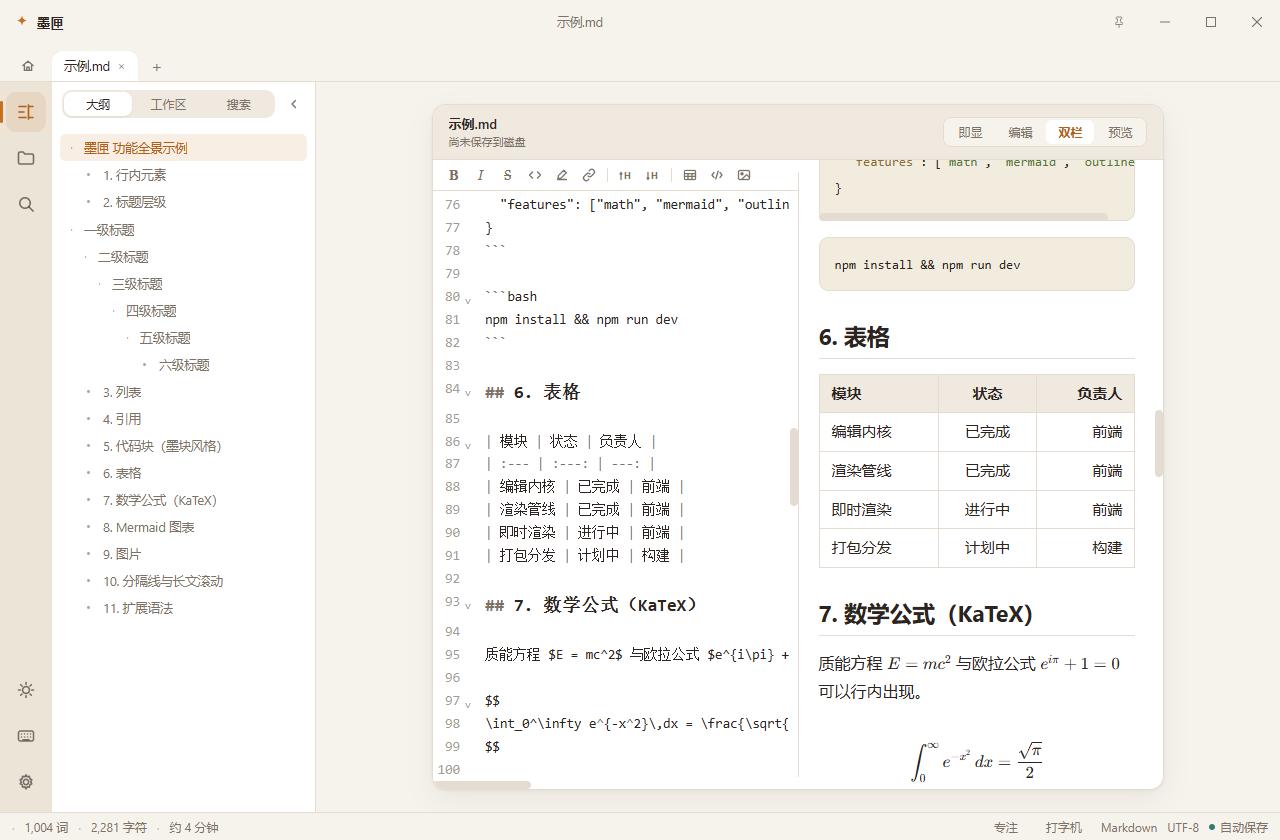
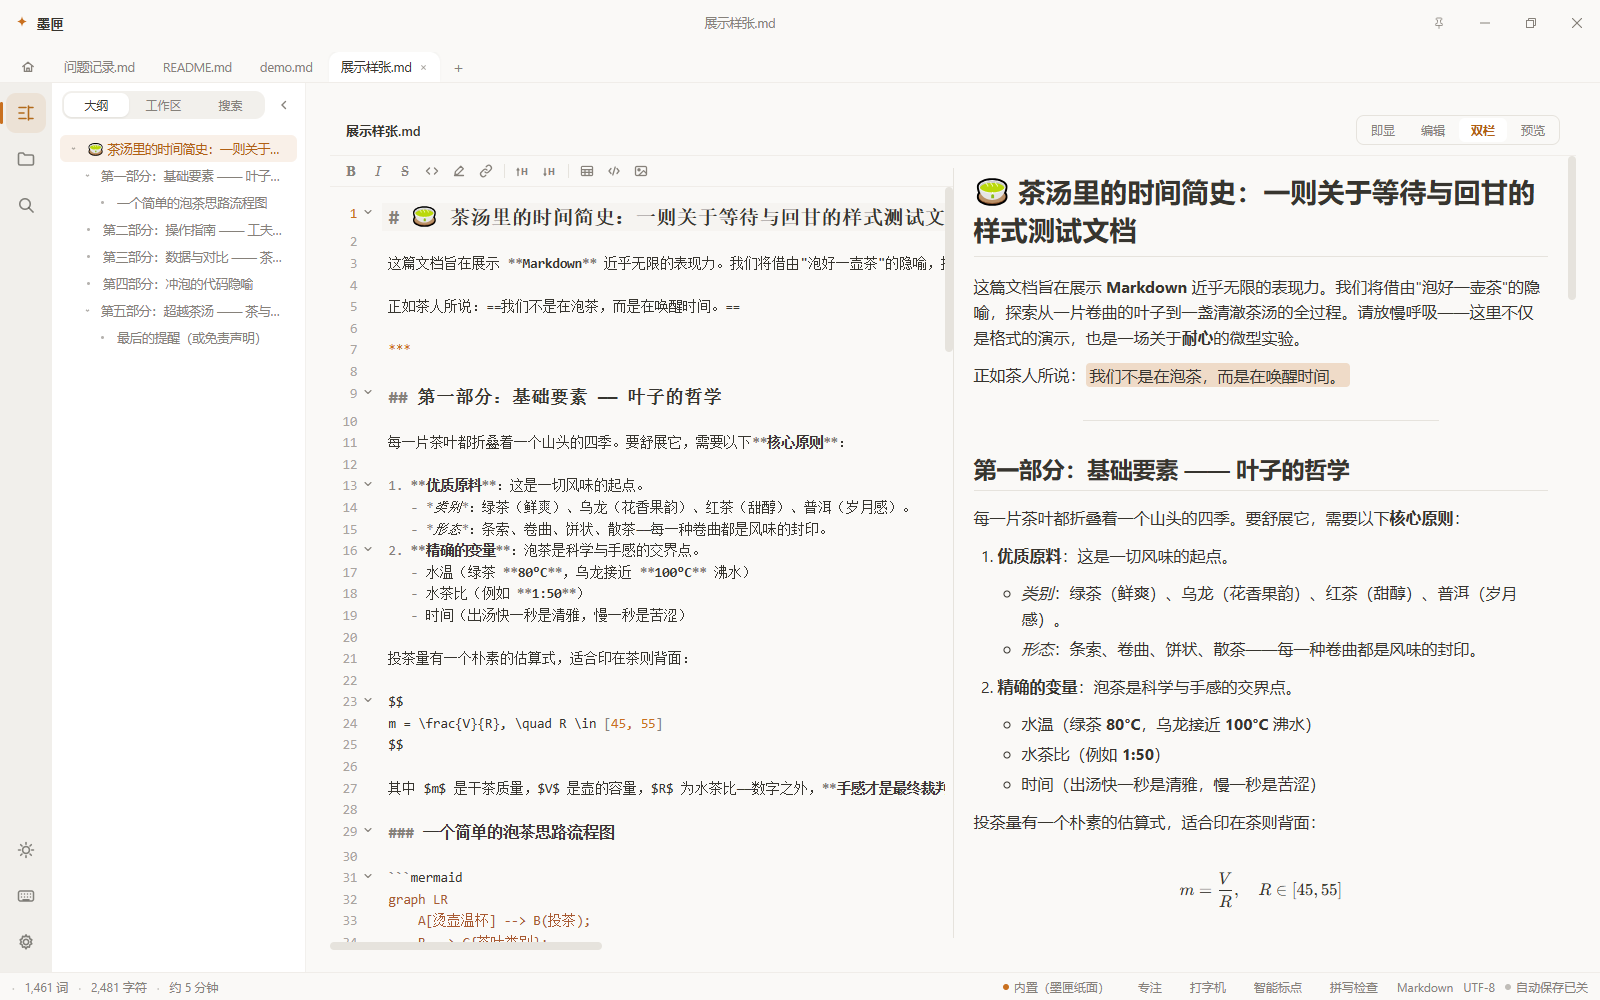
docs: README 新增兼容 Typora 主题展示区；截图素材统一为展示样张
- 新增「兼容 Typora 主题」节：10 主题四列表（主题/变体/官方地址/下载）
  + 17 张主题截图（多变体亮暗两张、单色一张；phycat 亮色用 caramel）
- 内置「界面预览」四张（即显亮/双栏亮/即显暗/预览暗）改用展示样张实拍
- 全部截图统一 1600×1000；图片表用 HTML 表格强制 50% 列宽（GitHub auto
  布局按表头文字分列宽会导致左右图一大一小）
- 新增 samples/展示样张.md（茶主题排版样张，README 素材链接指向它）

diff --git a/README.md b/README.md
@@ -1,12 +1,12 @@
 <div align="center">
 
-![](docs/banner.svg)
+![](./docs/banner.svg)
 
 [下载最新版](https://github.com/luciferoho/inkbox/releases/latest) · [问题反馈](https://github.com/luciferoho/inkbox/issues) · [设计规范](./DESIGN.md)
 
 </div>
 
----
+***
 
 ## 简介
 
@@ -16,13 +16,84 @@
 
 ## 界面预览
 
-以下截图均以内置的[功能示例文档](./samples/示例.md)实拍：
+以下截图均以内置的 [展示样张](./samples/展示样张.md) 实拍：
 
-| 即显模式 · 亮色 | 双栏模式 · 亮色（源码 ⇄ 预览同步） |
-|:---:|:---:|
-| ![](docs/shot-wysiwyg-light.png) | ![](docs/shot-split-light.png) |
-| **即显模式 · 暗色** | **预览模式 · 暗色** |
-| ![](docs/shot-wysiwyg-dark.png) | ![](docs/shot-preview-dark.png) |
+<table>
+  <tr>
+    <th width="50%">即显模式 · 亮色</th>
+    <th width="50%">双栏模式 · 亮色（源码 ⇄ 预览同步）</th>
+  </tr>
+  <tr>
+    <td align="center"><img src="./docs/shot-wysiwyg-light.png" width="100%" alt="即显模式 · 亮色" /></td>
+    <td align="center"><img src="./docs/shot-split-light.png" width="100%" alt="双栏模式 · 亮色" /></td>
+  </tr>
+  <tr>
+    <th width="50%">即显模式 · 暗色</th>
+    <th width="50%">预览模式 · 暗色</th>
+  </tr>
+  <tr>
+    <td align="center"><img src="./docs/shot-wysiwyg-dark.png" width="100%" alt="即显模式 · 暗色" /></td>
+    <td align="center"><img src="./docs/shot-preview-dark.png" width="100%" alt="预览模式 · 暗色" /></td>
+  </tr>
+</table>
+
+## 兼容 Typora 主题
+
+墨匣兼容主流 Typora 主题：将下载的主题放入主题目录（应用内 **设置 → 主题 → 打开主题目录**）即可在设置中切换，支持明暗变体跟随与多配色族。
+
+| 主题              | 变体           | 官方地址                                                                                              | 下载                                                                                        |
+| --------------- | ------------ | ------------------------------------------------------------------------------------------------- | ----------------------------------------------------------------------------------------- |
+| phycat          | 11 种配色       | [sumruler/typora-theme-phycat](https://github.com/sumruler/typora-theme-phycat)                   | [前往下载](https://github.com/sumruler/typora-theme-phycat/releases)                          |
+| esther-inspired | 浅色 / 深色      | [lisitan/esther-obsidian-typora-themes](https://github.com/lisitan/esther-obsidian-typora-themes) | [前往下载](https://github.com/lisitan/esther-obsidian-typora-themes/releases)                 |
+| eyes-green      | 浅色 / 深色      | [aqimake/typora-eyes-green-theme](https://github.com/aqimake/typora-eyes-green-theme)             | [前往下载](https://github.com/aqimake/typora-eyes-green-theme/releases)                       |
+| vue             | 浅色 / 深色      | [blinkfox/typora-vue-theme](https://github.com/blinkfox/typora-vue-theme)                         | [直接下载](https://codeload.github.com/blinkfox/typora-vue-theme/zip/master)                  |
+| morandigarden   | 浅色           | [Kitsunee-CN/MorandiGarden](https://github.com/Kitsunee-CN/MorandiGarden)                         | [前往下载](https://github.com/Kitsunee-CN/MorandiGarden/releases)                             |
+| orangeheart     | 浅色           | [evgo2017/typora-theme-orange-heart](https://github.com/evgo2017/typora-theme-orange-heart)       | [前往下载](https://github.com/evgo2017/typora-theme-orange-heart/blob/master/orangeheart.css) |
+| kiro            | 深色           | [mooonu/typora-kiro-theme](https://github.com/mooonu/typora-kiro-theme)                           | [前往下载](https://github.com/mooonu/typora-kiro-theme/releases)                              |
+| sonnet          | 浅色 / 深色      | —                                                                                                 | [直接下载](https://codeload.github.com/bexino/sonnet/zip/refs/heads/main)                     |
+| claude-like     | 浅色 / 深色 / 灰色 | [Muyiiiii/Typora_Claude-Like_Theme](https://github.com/Muyiiiii/Typora_Claude-Like_Theme)         | [前往下载](https://github.com/Muyiiiii/Typora_Claude-Like_Theme/releases)                     |
+| lightmind       | 浅色 / 深色      | [SunMoonTrain/LightMindTheme](https://github.com/SunMoonTrain/LightMindTheme)                     | [前往下载](https://github.com/SunMoonTrain/LightMindTheme/releases)                           |
+
+以下主题截图均以内置的 [展示样张](./samples/展示样张.md) 实拍（即显模式 + 大纲侧栏）：
+
+<table>
+  <tr>
+    <td width="50%" align="center"><strong>phycat</strong> · caramel（亮）<br /><img src="./docs/themes/phycat-caramel.png" width="100%" alt="phycat · caramel" /></td>
+    <td width="50%" align="center"><strong>phycat</strong> · vampire（暗）<br /><img src="./docs/themes/phycat-vampire.png" width="100%" alt="phycat · vampire" /></td>
+  </tr>
+  <tr>
+    <td width="50%" align="center"><strong>esther-inspired</strong> · 浅色<br /><img src="./docs/themes/esther-inspired-light.png" width="100%" alt="esther-inspired 浅色" /></td>
+    <td width="50%" align="center"><strong>esther-inspired</strong> · 深色<br /><img src="./docs/themes/esther-inspired-dark.png" width="100%" alt="esther-inspired 深色" /></td>
+  </tr>
+  <tr>
+    <td width="50%" align="center"><strong>eyes-green</strong> · 浅色<br /><img src="./docs/themes/eyes-green-light.png" width="100%" alt="eyes-green 浅色" /></td>
+    <td width="50%" align="center"><strong>eyes-green</strong> · 深色<br /><img src="./docs/themes/eyes-green-dark.png" width="100%" alt="eyes-green 深色" /></td>
+  </tr>
+  <tr>
+    <td width="50%" align="center"><strong>vue</strong> · 浅色<br /><img src="./docs/themes/vue-light.png" width="100%" alt="vue 浅色" /></td>
+    <td width="50%" align="center"><strong>vue</strong> · 深色<br /><img src="./docs/themes/vue-dark.png" width="100%" alt="vue 深色" /></td>
+  </tr>
+  <tr>
+    <td width="50%" align="center"><strong>sonnet</strong> · 浅色<br /><img src="./docs/themes/sonnet-light.png" width="100%" alt="sonnet 浅色" /></td>
+    <td width="50%" align="center"><strong>sonnet</strong> · 深色<br /><img src="./docs/themes/sonnet-dark.png" width="100%" alt="sonnet 深色" /></td>
+  </tr>
+  <tr>
+    <td width="50%" align="center"><strong>claude-like</strong> · 浅色<br /><img src="./docs/themes/claude-like-light.png" width="100%" alt="claude-like 浅色" /></td>
+    <td width="50%" align="center"><strong>claude-like</strong> · 深色<br /><img src="./docs/themes/claude-like-dark.png" width="100%" alt="claude-like 深色" /></td>
+  </tr>
+  <tr>
+    <td width="50%" align="center"><strong>lightmind</strong> · 浅色<br /><img src="./docs/themes/lightmind-light.png" width="100%" alt="lightmind 浅色" /></td>
+    <td width="50%" align="center"><strong>lightmind</strong> · 深色<br /><img src="./docs/themes/lightmind-dark.png" width="100%" alt="lightmind 深色" /></td>
+  </tr>
+</table>
+
+<table>
+  <tr>
+    <td width="33.3%" align="center"><strong>morandigarden</strong><br /><img src="./docs/themes/morandigarden-light.png" width="100%" alt="morandigarden" /></td>
+    <td width="33.3%" align="center"><strong>orangeheart</strong><br /><img src="./docs/themes/orangeheart-light.png" width="100%" alt="orangeheart" /></td>
+    <td width="33.4%" align="center"><strong>kiro</strong><br /><img src="./docs/themes/kiro-dark.png" width="100%" alt="kiro" /></td>
+  </tr>
+</table>
 
 ## 功能特性
 
@@ -69,25 +140,25 @@
 
 前往 [Releases](https://github.com/luciferoho/inkbox/releases/latest) 下载：
 
-| 文件 | 说明 |
-|------|------|
-| `Inkbox-<版本>-setup.exe` | 安装版（推荐，可选安装目录，支持自动更新） |
-| `Inkbox-<版本>-portable.exe` | 便携版（免安装单文件） |
+| 文件                         | 说明                    |
+| -------------------------- | --------------------- |
+| `Inkbox-<版本>-setup.exe`    | 安装版（推荐，可选安装目录，支持自动更新） |
+| `Inkbox-<版本>-portable.exe` | 便携版（免安装单文件）           |
 
 - 系统要求：Windows 10 及以上（x64）
 - 安装包未做代码签名，首次运行如遇 SmartScreen 提示，选择「更多信息 → 仍要运行」即可
 
 ## 快捷键（节选）
 
-| 快捷键 | 功能 |
-|--------|------|
-| `Ctrl+N` / `Ctrl+S` | 新建 / 保存 |
-| `Ctrl+F` / `Ctrl+H` | 查找 / 替换 |
-| `Ctrl+E` | 导出 |
-| `Ctrl+,` | 偏好设置 |
-| `Ctrl+Tab` / `Ctrl+Shift+Tab` | 切换标签 |
-| `F8` / `F9` | 专注模式 / 打字机模式 |
-| `Ctrl+\` | 切换编辑模式 |
+| 快捷键                           | 功能           |
+| ----------------------------- | ------------ |
+| `Ctrl+N` / `Ctrl+S`           | 新建 / 保存      |
+| `Ctrl+F` / `Ctrl+H`           | 查找 / 替换      |
+| `Ctrl+E`                      | 导出           |
+| `Ctrl+,`                      | 偏好设置         |
+| `Ctrl+Tab` / `Ctrl+Shift+Tab` | 切换标签         |
+| `F8` / `F9`                   | 专注模式 / 打字机模式 |
+| `Ctrl+\`                      | 切换编辑模式       |
 
 完整列表见应用内 **快捷键** 面板（支持自定义改键）。
 

diff --git a/samples/展示样张.md b/samples/展示样张.md
@@ -1,0 +1,139 @@
+# 🍵 茶汤里的时间简史：一则关于等待与回甘的样式测试文档
+
+这篇文档旨在展示 **Markdown** 近乎无限的表现力。我们将借由"泡好一壶茶"的隐喻，探索从一片卷曲的叶子到一盏清澈茶汤的全过程。请放慢呼吸——这里不仅是格式的演示，也是一场关于**耐心**的微型实验。
+
+正如茶人所说：==我们不是在泡茶，而是在唤醒时间。==
+
+---
+
+## 第一部分：基础要素 —— 叶子的哲学
+
+每一片茶叶都折叠着一个山头的四季。要舒展它，需要以下**核心原则**：
+
+1.  **优质原料**：这是一切风味的起点。
+    *   *类别*：绿茶（鲜爽）、乌龙（花香果韵）、红茶（甜醇）、普洱（岁月感）。
+    *   *形态*：条索、卷曲、饼状、散茶——每一种卷曲都是风味的封印。
+2.  **精确的变量**：泡茶是科学与手感的交界点。
+    *   水温（绿茶 **80°C**，乌龙接近 **100°C** 沸水）
+    *   水茶比（例如 **1:50**）
+    *   时间（出汤快一秒是清雅，慢一秒是苦涩）
+
+投茶量有一个朴素的估算式，适合印在茶则背面：
+
+$$
+m = \frac{V}{R}, \quad R \in [45, 55]
+$$
+
+其中 $m$ 是干茶质量，$V$ 是壶的容量，$R$ 为水茶比——数字之外，**手感才是最终裁判**。
+
+### 一个简单的泡茶思路流程图
+
+```mermaid
+graph LR
+    A[烫壶温杯] --> B(投茶);
+    B --> C{茶叶类别};
+    C -->|绿茶| D[80°C 悬壶高冲];
+    C -->|乌龙| E[沸水环绕注水];
+    D --> F[一分钟后出汤];
+    E --> G[前四泡快进快出];
+    F & G --> H[分茶];
+    H --> I[闻香!];
+```
+
+## 第二部分：操作指南 —— 工夫茶的仪式感
+
+以下是一段经典的**潮州工夫茶**流程，它体现了秩序与即兴的结合：
+
+1.  **备器**：孟臣壶、若琛杯，一只茶海，烧水器一应俱全。
+2.  **温润**：沸水烫壶烫杯，顺手把茶宠浇得油光水亮。
+3.  **醒茶**：
+    - 第一泡注水后立即倒掉，唤醒沉睡的叶片。
+    - 观察叶底舒展的速度，判断火功与陈化。
+        - ✅ 理想：叶片边缘渐次展开，汤色透亮。
+        - ❌ 失误：汤色浑浊发暗，多半是存放不当或火功过头。
+4.  **出汤**：前四泡 **快进快出**，之后每泡顺延五秒，直到茶味淡成一阵回甘。
+
+> **技术注记**：快出汤的本质是控制浸出物浓度曲线——前段取香，中段取味，尾段取韵。这是**科学**的部分。而每一泡之间等待的那十几秒，盯着袅袅的热气放空自己，则是**艺术**的开始。
+
+## 第三部分：数据与对比 —— 茶类的理性选择
+
+六大茶类性格迥异，下表对比了四种代表茶的处理方式：
+
+| 茶类                     | 发酵程度   | 核心工艺         | 上手难度 | 适合场景             |
+| :----------------------- | :--------- | :--------------- | :------- | :------------------- |
+| **绿茶**（龙井）         | 不发酵 ⭐  | 杀青、理条       | ⭐⭐      | 春日午后、配青团     |
+| **乌龙**（凤凰单丛[^1]） | 半发酵     | 做青、炭焙       | ⭐⭐⭐⭐   | 深夜码字、闻香止饿   |
+| **红茶**（正山小种）     | 全发酵     | 萎凋、发酵、烘焙 | ⭐⭐      | 冬日手边、加奶无压力 |
+| **普洱**（老生普）       | 后发酵     | 晒青、紧压、陈化 | ⭐⭐⭐     | 有耐心的朋友来访     |
+
+周末茶会的筹备清单，欢迎勾选：
+
+- [x] 选定主题茶单（一绿一乌一红）
+- [x] 备好山泉水与备用滤网
+- [ ] 练习一手稳定的「关公巡城」
+- [ ] 说服朋友不要往单丛里加糖
+
+## 第四部分：冲泡的代码隐喻
+
+泡茶本质上是一个受控的萃取过程。我们可以用一段代码来抽象这一逻辑：
+
+```python
+# tea_brewing.py
+class GongfuSession:
+    def __init__(self, tea, water=100, ratio=50):
+        self.tea = tea        # 茶叶对象（含类别、焙火属性）
+        self.water = water    # 水温
+        self.ratio = ratio    # 水茶比
+        self.steep = 0        # 当前冲泡次数
+        self.aroma = 0.0      # 香气浓度
+
+    def brew(self):
+        """执行一次冲泡的核心算法"""
+        temp = self._adjust_temp()        # 按茶类修正水温
+        self.steep += 1
+
+        if self._is_wake_up(self.steep):  # 醒茶不喝
+            return "🚮 倒掉，唤醒茶叶。"
+
+        self.aroma = self._measure_aroma(temp)
+        if self.aroma >= 0.8:
+            return "🌸 高香！这一泡值回票价。"
+        elif self.aroma >= 0.5:
+            return "🍵 顺口，适合配茶点慢慢聊。"
+        else:
+            return "💧 淡了，水温或时间该加把劲。"
+
+# 开席
+tonight = GongfuSession(tea="凤凰单丛 鸭屎香", ratio=45)
+print(tonight.brew())
+```
+
+## 第五部分：超越茶汤 —— 茶与生活
+
+一壶好茶的影响，远不止于味蕾。
+
+*   **它是节奏的调节器**：烧水、注水、出汤的几分钟里，手机被自然地放到了视线之外。
+*   **它是待客的分寸**：「我给你泡个茶」是中国式客厅里最松弛的挽留。
+*   **它是灵感的引信**：多少方案在第三泡之后突然清晰，多少分歧在续水时悄悄和解。
+
+<p class="page-break"/>
+
+---
+
+### 最后的提醒（或免责声明）
+
+> ⚠ **请注意**：本文档中关于茶的所有描述，都源于作者的主观体验与有限的茶叶预算。茶的**终极奥义**在于你的个人偏好。如果你爱喝冰红茶、茉莉奶绿，或者就爱嚼茶叶解腻，那也完全正确。所有关于"讲究"的探讨，其目的都是为了**增进饮茶的乐趣，而非设立品味的藩篱**。
+
+> [!TIP]  
+> 绿茶怕烫，水烧开了晾三分钟再冲，鲜爽感立省一半学费。
+
+> [!WARNING]  
+> 空腹猛灌浓茶，容易出现"茶醉"——心慌手抖，比咖啡因来得更温柔也更突然。
+
+> [!NOTE]  
+> 好水不抢戏：纯净水泡茶最稳，矿物质的浓淡会明显改写同一泡茶的性格。
+
+> [!IMPORTANT]  
+> **隔夜茶不喝，头道茶醒茶**——这两条是老茶客间少有的、没有争议的共识。
+
+[^1]: 单丛的香型多到离谱（蜜兰香、鸭屎香、芝兰香……），相传有"一树一香"之说，点茶前建议先问香型。
